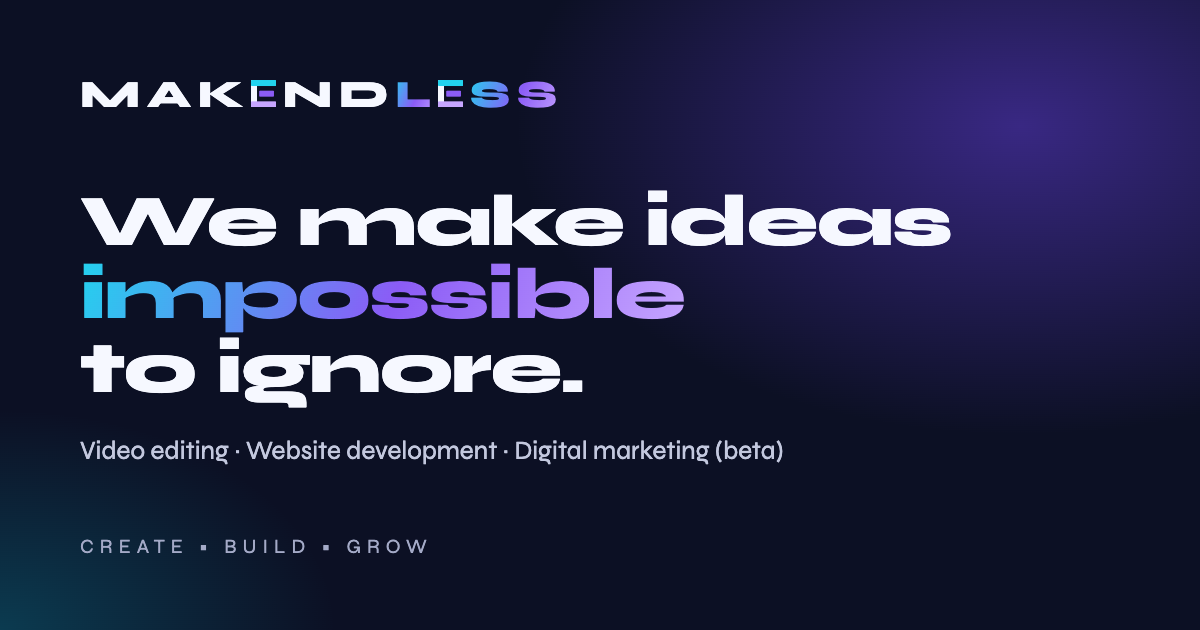
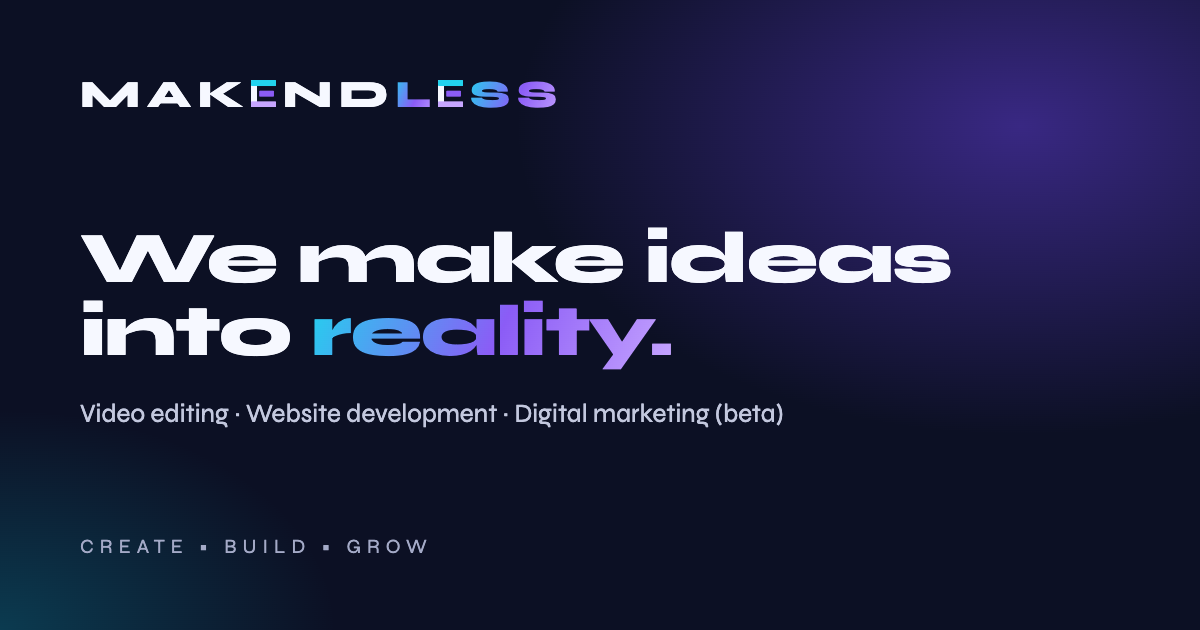
New headline: We make ideas into reality.
Hero (3 lines, 'reality.' accent), SEO description, JSON-LD slogan, share image, CTA end-scene captions, sample ad copy.

Changed region(s): [[0.0617, 0.3016, 0.8017, 0.754]]

diff --git a/components/HeroScreens.tsx b/components/HeroScreens.tsx
@@ -102,7 +102,7 @@ export function PhoneScreen({ p, paused, ad, back }: { p: number; paused: boolea
       <div className="absolute inset-0 flex flex-col bg-[#f6f7fc] text-[#13172b]" style={{ clipPath: `inset(0 0 ${ad ? 0 : 100}% 0)`, transition: `clip-path .75s ${EASE}` }} aria-hidden={!ad}>
         <div className="flex items-center gap-2 px-4 pb-2 pt-11 text-[11px] font-bold"><span className="h-7 w-7 rounded-full" style={{ background: "var(--prism)" }} />yourbrand<span className="ml-auto font-normal text-[#5a6082]">Sponsored</span></div>
         <div className="relative mx-3 flex-1 overflow-hidden rounded-2xl" style={{ background: "linear-gradient(150deg,#6f45f6,#c7a6ff 55%,#22d3ee)" }}>
-          <p className="absolute inset-x-4 top-7 text-[23px] font-extrabold leading-[1.05] text-white">Your offer, made impossible to ignore.</p>
+          <p className="absolute inset-x-4 top-7 text-[23px] font-extrabold leading-[1.05] text-white">Your idea, made real.</p>
           <div className="absolute -bottom-10 -right-10 h-40 w-40 rounded-full bg-white/25" />
         </div>
         <div className="flex flex-col items-center gap-2 px-4 py-4"><span className="w-full rounded-full bg-[#13172b] py-2.5 text-center text-xs font-bold text-white">Learn more</span><BetaLabel /></div>
@@ -168,7 +168,7 @@ export function BrowserScreen({ p, resize, ad, back }: { p: number; resize: bool
           <div className="w-20 shrink-0 space-y-2">{[0, 1, 2, 3].map((k) => (<div key={k} className="h-5 rounded bg-[#d5d9ea]" />))}</div>
           <div className="flex min-w-0 flex-1 flex-col overflow-hidden rounded-xl bg-white shadow">
             <div className="flex items-center gap-2 px-3 py-2 text-[11px] font-bold text-[#13172b]"><span className="h-6 w-6 rounded-full" style={{ background: "var(--prism)" }} />yourbrand <span className="font-normal text-[#5a6082]">· Sponsored</span><span className="ml-auto"><BetaLabel /></span></div>
-            <div className="relative flex-1" style={{ background: "linear-gradient(120deg,#6f45f6,#c7a6ff 55%,#22d3ee)" }}><p className="absolute left-4 top-1/2 max-w-[70%] -translate-y-1/2 text-[24px] font-extrabold leading-[1.05] text-white">Your offer, made impossible to ignore.</p></div>
+            <div className="relative flex-1" style={{ background: "linear-gradient(120deg,#6f45f6,#c7a6ff 55%,#22d3ee)" }}><p className="absolute left-4 top-1/2 max-w-[70%] -translate-y-1/2 text-[24px] font-extrabold leading-[1.05] text-white">Your idea, made real.</p></div>
             <div className="flex items-center justify-between px-3 py-2 text-[11px] text-[#13172b]"><span>Sample ad creative</span><span className="rounded-full bg-[#13172b] px-3 py-1 font-bold text-white">Learn more</span></div>
           </div>
         </div>

diff --git a/components/Hero.tsx b/components/Hero.tsx
@@ -16,7 +16,7 @@ const MODES = [
   { label: "Website Development", short: "Websites", word: "BUILD", color: "#8b5cf6", stages: ["Wireframe", "Layout", "Style", "Responsive", "Launch"] },
   { label: "Digital Marketing — Beta", short: "Marketing", word: "GROW", color: "#c7a6ff", beta: true, stages: ["Brief", "Creative", "Format", "Preview", "Review"] },
 ];
-const LINES = ["We make", "ideas", "impossible", "to ignore."];
+const LINES = ["We make", "ideas into", "reality."];
 const EASE = "cubic-bezier(.2,.8,.2,1)";
 
 function hasWebGL() {
@@ -160,12 +160,11 @@ export default function Hero() {
         {/* TEXT */}
         <div className="pointer-events-none relative z-20 pt-4 sm:pt-8 lg:w-[52%] lg:py-10 [&_a]:pointer-events-auto">
           <p className="mb-5 hidden text-xs font-bold uppercase tracking-[0.35em] text-[#08bbd4] sm:block">Creative &amp; Technology Studio</p>
-          <h1 id="hero-title" aria-label="We make ideas impossible to ignore." className="text-[2.25rem] font-extrabold leading-[0.98] tracking-tight min-[390px]:text-[2.45rem] sm:text-[3.4rem] lg:text-[3.6rem] xl:text-[4.7rem]">
+          <h1 id="hero-title" aria-label="We make ideas into reality." className="text-[2.25rem] font-extrabold leading-[0.98] tracking-tight min-[390px]:text-[2.45rem] sm:text-[3.4rem] lg:text-[3.6rem] xl:text-[4.7rem]">
             <span aria-hidden="true">
-              <Line text={LINES[0]} i={0} g={touched ? seg(p, 0.24, 0.46) : 1} intro={intro} />
-              <Line text={LINES[1]} i={1} g={touched ? seg(p, 0.36, 0.6) : 1} intro={intro} />
-              <Line text={LINES[2]} i={2} g={touched ? seg(p, 0.5, 0.82) : 1} accent intro={intro} />
-              <Line text={LINES[3]} i={3} g={touched ? seg(p, 0.7, 0.96) : 1} intro={intro} />
+              <Line text={LINES[0]} i={0} g={touched ? seg(p, 0.24, 0.5) : 1} intro={intro} />
+              <Line text={LINES[1]} i={1} g={touched ? seg(p, 0.42, 0.72) : 1} intro={intro} />
+              <Line text={LINES[2]} i={2} g={touched ? seg(p, 0.64, 0.96) : 1} accent intro={intro} />
             </span>
           </h1>
           {/* kinetic mode word */}

diff --git a/app/grow/page.tsx b/app/grow/page.tsx
@@ -1,4 +1,4 @@
 import type { Metadata } from "next";
 import StudioPage from "../../components/StudioPage";
-export const metadata: Metadata = { title: "GROW — Digital Marketing (Beta)", description: "GROW is MAKENDLESS's digital marketing studio, currently in beta: Meta and Google Ads, social media management and local presence. Not offered yet; register your interest.", alternates: { canonical: "/grow" }, openGraph: { title: "GROW — Digital Marketing (Beta) — MAKENDLESS", description: "GROW is MAKENDLESS's digital marketing studio, currently in beta: Meta and Google Ads, social media management and local presence. Not offered yet; register your interest.", url: "/grow", images: [{ url: "/opengraph-image.png", width: 1200, height: 630, alt: "MAKENDLESS — We make ideas impossible to ignore." }] } };
+export const metadata: Metadata = { title: "GROW — Digital Marketing (Beta)", description: "GROW is MAKENDLESS's digital marketing studio, currently in beta: Meta and Google Ads, social media management and local presence. Not offered yet; register your interest.", alternates: { canonical: "/grow" }, openGraph: { title: "GROW — Digital Marketing (Beta) — MAKENDLESS", description: "GROW is MAKENDLESS's digital marketing studio, currently in beta: Meta and Google Ads, social media management and local presence. Not offered yet; register your interest.", url: "/grow", images: [{ url: "/opengraph-image.png", width: 1200, height: 630, alt: "MAKENDLESS — We make ideas into reality." }] } };
 export default function Page() { return <StudioPage id="grow" />; }

diff --git a/app/build/page.tsx b/app/build/page.tsx
@@ -1,4 +1,4 @@
 import type { Metadata } from "next";
 import StudioPage from "../../components/StudioPage";
-export const metadata: Metadata = { title: "BUILD — Website Development", description: "Website design and development: business websites, e-commerce stores, booking systems and custom web apps, redesigns and ongoing maintenance. Responsive and accessible.", alternates: { canonical: "/build" }, openGraph: { title: "BUILD — Website Development — MAKENDLESS", description: "Website design and development: business websites, e-commerce stores, booking systems and custom web apps, redesigns and ongoing maintenance. Responsive and accessible.", url: "/build", images: [{ url: "/opengraph-image.png", width: 1200, height: 630, alt: "MAKENDLESS — We make ideas impossible to ignore." }] } };
+export const metadata: Metadata = { title: "BUILD — Website Development", description: "Website design and development: business websites, e-commerce stores, booking systems and custom web apps, redesigns and ongoing maintenance. Responsive and accessible.", alternates: { canonical: "/build" }, openGraph: { title: "BUILD — Website Development — MAKENDLESS", description: "Website design and development: business websites, e-commerce stores, booking systems and custom web apps, redesigns and ongoing maintenance. Responsive and accessible.", url: "/build", images: [{ url: "/opengraph-image.png", width: 1200, height: 630, alt: "MAKENDLESS — We make ideas into reality." }] } };
 export default function Page() { return <StudioPage id="build" />; }

diff --git a/app/create/page.tsx b/app/create/page.tsx
@@ -1,4 +1,4 @@
 import type { Metadata } from "next";
 import StudioPage from "../../components/StudioPage";
-export const metadata: Metadata = { title: "CREATE — Video Editing", description: "Video editing for creators and businesses: short-form Reels and Shorts, long-form and podcast edits, promotional and ad video, content repurposing and motion graphics.", alternates: { canonical: "/create" }, openGraph: { title: "CREATE — Video Editing — MAKENDLESS", description: "Video editing for creators and businesses: short-form Reels and Shorts, long-form and podcast edits, promotional and ad video, content repurposing and motion graphics.", url: "/create", images: [{ url: "/opengraph-image.png", width: 1200, height: 630, alt: "MAKENDLESS — We make ideas impossible to ignore." }] } };
+export const metadata: Metadata = { title: "CREATE — Video Editing", description: "Video editing for creators and businesses: short-form Reels and Shorts, long-form and podcast edits, promotional and ad video, content repurposing and motion graphics.", alternates: { canonical: "/create" }, openGraph: { title: "CREATE — Video Editing — MAKENDLESS", description: "Video editing for creators and businesses: short-form Reels and Shorts, long-form and podcast edits, promotional and ad video, content repurposing and motion graphics.", url: "/create", images: [{ url: "/opengraph-image.png", width: 1200, height: 630, alt: "MAKENDLESS — We make ideas into reality." }] } };
 export default function Page() { return <StudioPage id="create" />; }

diff --git a/components/cta/frames.ts b/components/cta/frames.ts
@@ -92,12 +92,12 @@ export function drawReel() {
   d.addColorStop(0, "rgba(8,11,26,0)"); d.addColorStop(1, "rgba(8,11,26,.85)");
   g.fillStyle = d; g.fillRect(0, 0, W, H);
   g.textBaseline = "middle"; g.textAlign = "center";
-  fit(g, "IMPOSSIBLE", 168, 25);
+  fit(g, "IDEAS INTO", 168, 25);
   g.fillStyle = "#ffffff"; rr(g, 34, 372, 192, 40, 10); g.fill();
-  g.fillStyle = color.dark; g.fillText("IMPOSSIBLE", 130, 393);
+  g.fillStyle = color.dark; g.fillText("IDEAS INTO", 130, 393);
   g.fillStyle = color.aquaBright; rr(g, 46, 418, 168, 40, 10); g.fill();
-  fit(g, "TO IGNORE", 144, 25);
-  g.fillStyle = color.dark; g.fillText("TO IGNORE", 130, 439);
+  fit(g, "REALITY", 144, 25);
+  g.fillStyle = color.dark; g.fillText("REALITY", 130, 439);
   g.fillStyle = "rgba(255,255,255,.3)"; rr(g, 24, 498, W - 48, 5, 2.5); g.fill();
   g.fillStyle = prism(g, 24, 0, W - 24, 0); rr(g, 24, 498, W - 48, 5, 2.5); g.fill();
   g.fillStyle = "#ffffff"; g.beginPath(); g.arc(W - 24, 500.5, 7, 0, Math.PI * 2); g.fill();

diff --git a/app/layout.tsx b/app/layout.tsx
@@ -29,7 +29,7 @@ export default function RootLayout({ children }: { children: React.ReactNode }) 
         <a href="#main" className="sr-only focus:not-sr-only focus:fixed focus:left-4 focus:top-4 focus:z-[100] focus:rounded-full focus:bg-white focus:px-5 focus:py-3 focus:font-bold focus:text-black">Skip to content</a>
         <script type="application/ld+json" dangerouslySetInnerHTML={{ __html: JSON.stringify({
           "@context": "https://schema.org", "@type": "Organization", name: SITE_NAME, url: SITE_URL, logo: `${SITE_URL}/icon.svg`,
-          description: SITE_DESCRIPTION, slogan: "We make ideas impossible to ignore.",
+          description: SITE_DESCRIPTION, slogan: "We make ideas into reality.",
           knowsAbout: ["Video editing", "Motion graphics", "Website development", "E-commerce websites", "Booking systems"],
         }) }} />
         <Nav />

diff --git a/lib/site.ts b/lib/site.ts
@@ -1,7 +1,7 @@
 /** Site-wide constants. Real values the owner has not supplied are left empty and listed in TODO-FOR-OWNER.md. */
 export const SITE_NAME = "MAKENDLESS";
 export const SITE_TAGLINE = "Creative & Technology Studio";
-export const SITE_DESCRIPTION = "We make ideas impossible to ignore. Video editing and website development for creators and businesses. Digital marketing in beta.";
+export const SITE_DESCRIPTION = "We make ideas into reality. Video editing and website development for creators and businesses. Digital marketing in beta.";
 /** Public URL of the live site. Set NEXT_PUBLIC_SITE_URL once a domain is chosen (TODO-FOR-OWNER). */
 export const SITE_URL = (process.env.NEXT_PUBLIC_SITE_URL || "http://localhost:3000").replace(/\/$/, "");
 /** Verified inquiry email. Empty until the owner confirms one (TODO-FOR-OWNER). Never invent it. */
